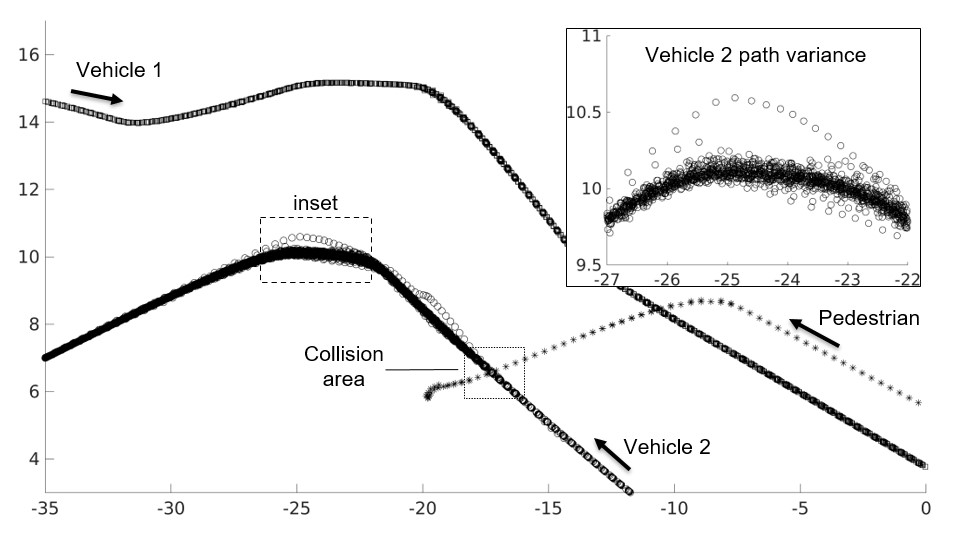
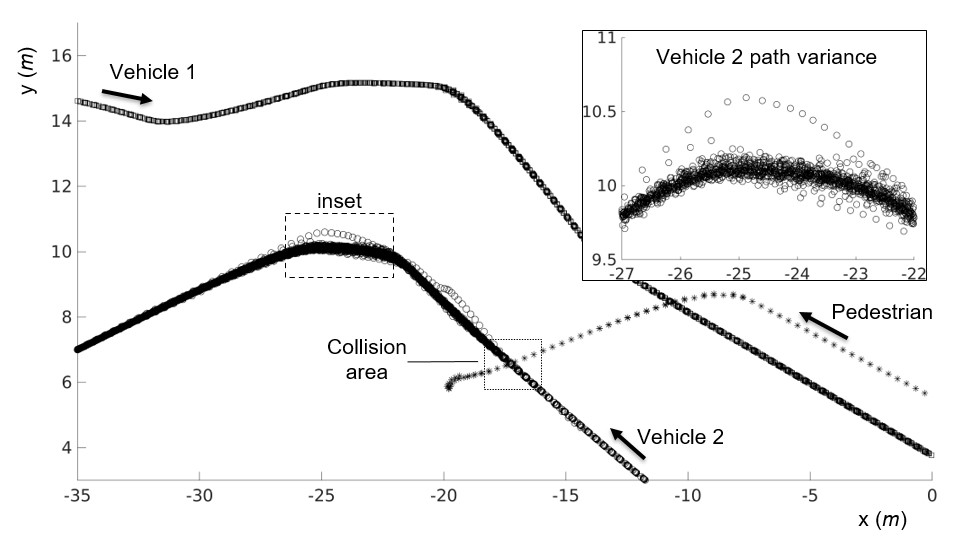
rebuttal KE comments complete

diff --git a/rebuttal_letter/rebuttal.tex b/rebuttal_letter/rebuttal.tex
@@ -271,12 +271,12 @@ To put this another way, we can accept a precision with a tolerance of $\leq$$\p
 
 Carla uses Unreal Engine 4 (UE4) for vehicle testing, which is not the original purpose of UE4. The issues discussed in the paper do not have any negative implications for games, but (as the paper argues) they do have negative implications for vehicle testing. Thus, the issues are issues with Carla rather than UE4, and the same issues are likely to arise in any simulator based on a game engine.
 
-There are examples of other simulators that run on game engines. AirSim developed by Microsoft for autonomous drone and vehicle development (see footnote\footnote{\url{https://microsoft.github.io/AirSim/}}) is based on the same UE4 game engine as Carla. Unreal is also the simulator backbone for the research efforts at the University of Warwick where simulation based safety testing is done using a simulation cave and a real vehicle (see footnote\footnote{\url{https://www.unrealengine.com/en-US/spotlights/meet-the-hybrid-real-time-simulator-for-testing-autonomous-vehicles}}). The Unity game engine has also been used for development of the apollo driving simulator (see footnote\footnote{\url{https://apollo.auto/gamesim.html}}) which has partnerships with many vehicle manufacturers (see footnote\footnote{\url{https://apollo.auto/about/ecological\_partner.html#taboem}}).\todo{This needs a concluding sentence that brings it back to the comment. ;)}
+There are examples of other simulators that run on game engines. For example, AirSim developed by Microsoft for autonomous drone and vehicle development (see footnote\footnote{\url{https://microsoft.github.io/AirSim/}}) is based on the same UE4 game engine as Carla. Unreal is also the simulator backbone for the research efforts at the University of Warwick where simulation based safety testing is done using a simulation cave and a real vehicle (see footnote\footnote{\url{https://www.unrealengine.com/en-US/spotlights/meet-the-hybrid-real-time-simulator-for-testing-autonomous-vehicles}}). Unity is another popular game engine and has been used for development of the Apollo driving simulator (see footnote\footnote{\url{https://apollo.auto/gamesim.html}}) which has partnerships with many vehicle manufacturers and development teams (see footnote\footnote{\url{https://apollo.auto/about/ecological\_partner.html#taboem}}). So from this, we can say that the use of UE4 and, more broadly, game engines are actively being used in the research and development of autonomous vehicles and is therefore relevant to AV testing and verification. 
 
 
 \bigskip
 
-
+\newpage
 \textit{Comment 5: "The numbers of references are odd"}.
 
 Please let us know any format changes that are required specifically. If you are referring to the document hyperlinks that link to each reference, these can be switched off if required.
@@ -372,7 +372,7 @@ We have attempted to reduce the paper size in different areas, please see the di
 
 We do not consider it feasible to provide a general understanding for the relative significance of each potential source of non-determinism due to the fact that these depend on the verification requirements, the simulation setup, the actual software/hardware configuration used, etc. These factors have been identified in our methodology in section VII. If the reader follows this methodology, then they should be able to discover the principle sources, quantify them and prioritise those which may lead to simulation variance above the permissible level for their use case.
 
-We have illustrated in Table.1 that pedestrian-vehicle collisions result in high simulation variance for our case study, and also the role that resource utilisation plays should be clear to the reader from viewing Fig.4. \todo{Check this, please. Stating that something is ``difficult'' is not a good nor a scientifically justifiable reason to dismiss a suggestion. ;)}
+We have illustrated in Table.1 that pedestrian-vehicle collisions result in high simulation variance for our case study, and also the role that resource utilisation plays should be clear to the reader from viewing Fig.4.
 
 
 \bigskip
@@ -388,7 +388,7 @@ Thank you, this is a great idea and we agree that this would give the reader a b
 \end{figure}
 
 
-This new figure is referenced in the following text (additional in italics):\todo{Ensure that the x and y axis in the graph show with units.}
+This new figure is referenced in the following text (additional in italics):
 \begin{quote}
 However, all other scenarios involving vehicles or a mixture of actor types do not meet the required tolerance, with some deviation in actor path as large as 59cm. \textit{A plot of actor position in the X-Y plane (plan view, units m) is shown in Fig.5, where the inset shows the divergence of the path of vehicle 2 post-collision with the pedestrian.} Clearly, such a large deviation cannot be acceptable for simulation to be considered a credible verification tool.
 \end{quote}
